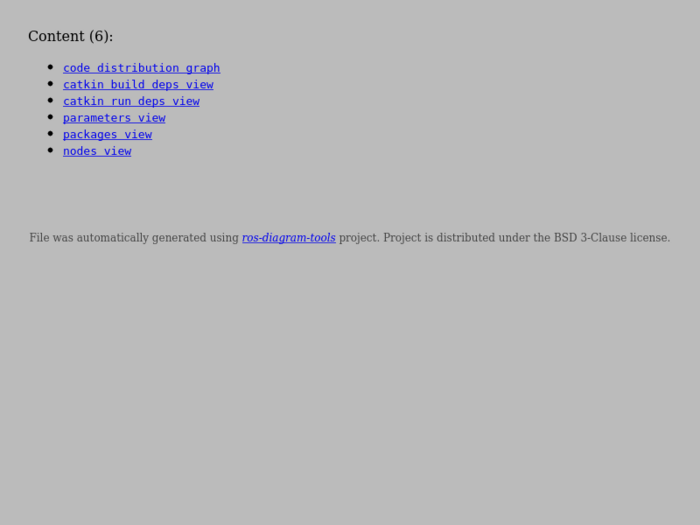
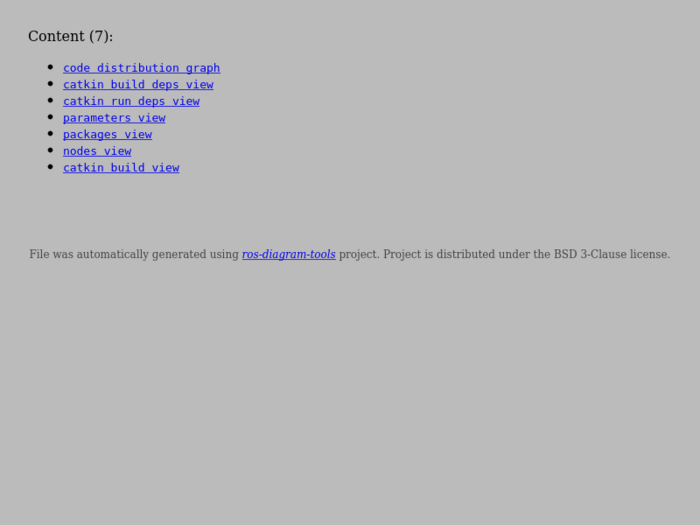
Add "--customlist" option to rosgeneral tool

Changed region(s): [[0.03, 0.4267, 0.96, 0.5181], [0.09, 0.3048, 0.27, 0.3352], [0.12, 0.061, 0.15, 0.0914]]

diff --git a/examples/mecanum_simulator/out/general/main_page.html b/examples/mecanum_simulator/out/general/main_page.html
@@ -51,7 +51,7 @@ Project is distributed under the BSD 3-Clause license.
 <body>
 
     <div class="bottom_content">
-        Content (6):
+        Content (7):
         <ul>
             <li><a href="clockpackview/full_graph.html"><code>code distribution graph</code></a></li>
             <li><a href="catkinbuildview/full_graph.html"><code>catkin build deps view</code></a></li>
@@ -59,6 +59,7 @@ Project is distributed under the BSD 3-Clause license.
             <li><a href="paramview/main_page.html"><code>parameters view</code></a></li>
             <li><a href="packageview/full_graph.html"><code>packages view</code></a></li>
             <li><a href="nodeview/full_graph.html"><code>nodes view</code></a></li>
+            <li><a href="../catkinschedule/full_graph.html"><code>catkin build view</code></a></li>
         </ul>
         <br />
     </div>

diff --git a/src/rosdiagram/tool/rosgeneral.py b/src/rosdiagram/tool/rosgeneral.py
@@ -49,6 +49,8 @@ def configure_parser( parser ):
                          help="Path to file with list of packages to highlight" )
     parser.add_argument( '-iri', '--includerosinternals', action='store_true',
                          help="Include ROS internal items like /rosout and /record_*" )
+    parser.add_argument( '--customlist', action='store', required=False, default="", nargs='*',
+                         help="Space-separated list of titles and links" )
     parser.add_argument( '--outdir', action='store', required=False, default="", help="Output HTML" )
 
 
@@ -204,6 +206,16 @@ def process_arguments( args ):
 
         nodes_out_file = os.path.join(nodes_out_dir, "full_graph.html")
         index_items_list.append( ("nodes view", nodes_out_file ) )
+
+    if args.customlist:
+        customlist = args.customlist
+        view_len = len(customlist)
+        for index in range(1, view_len, 2):
+            title = customlist[ index - 1 ]
+            link  = customlist[ index ]
+            index_items_list.append( (title, link) )
+        if view_len % 2 == 1:
+            index_items_list.append( (customlist[-1], "") )
 
     if index_items_list:
         rosindex.generate_pages( index_items_list, args.outdir )

diff --git a/doc/cmd_args_tools.md b/doc/cmd_args_tools.md
@@ -291,7 +291,9 @@ usage: rosdiagramtools.py rosgeneral [-h] [-la] [--dumprootdir DUMPROOTDIR]
                                      [--pkgsfilterlist PKGSFILTERLIST]
                                      [--highlightnodeslist HIGHLIGHTNODESLIST]
                                      [--highlightpackageslist HIGHLIGHTPACKAGESLIST]
-                                     [-iri] [--outdir OUTDIR]
+                                     [-iri]
+                                     [--customlist [CUSTOMLIST [CUSTOMLIST ...]]]
+                                     [--outdir OUTDIR]
 
 index of diagrams
 
@@ -315,6 +317,8 @@ optional arguments:
                         Path to file with list of packages to highlight
   -iri, --includerosinternals
                         Include ROS internal items like /rosout and /record_*
+  --customlist [CUSTOMLIST [CUSTOMLIST ...]]
+                        Space-separated list of titles and links
   --outdir OUTDIR       Output HTML
 ```
 
